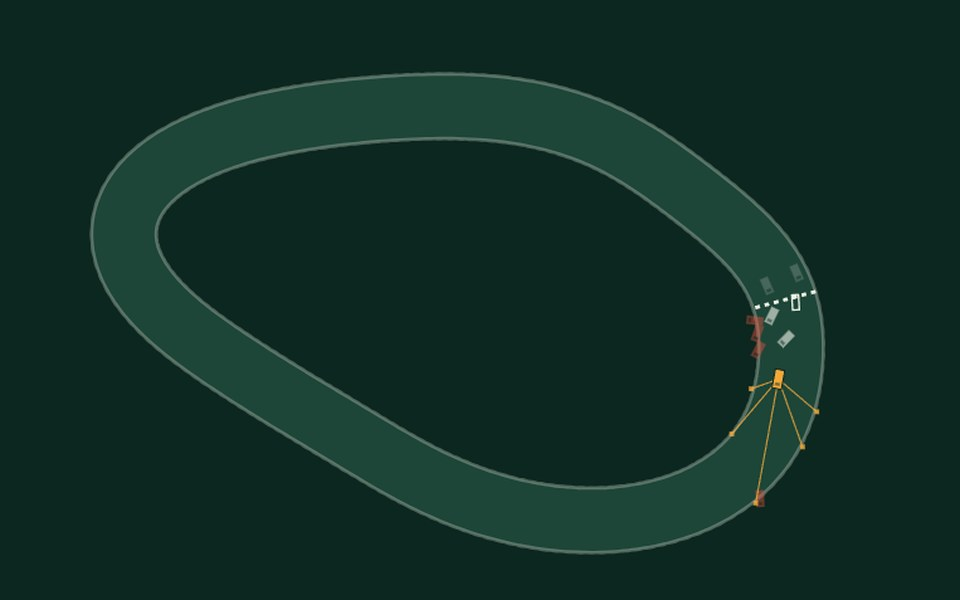
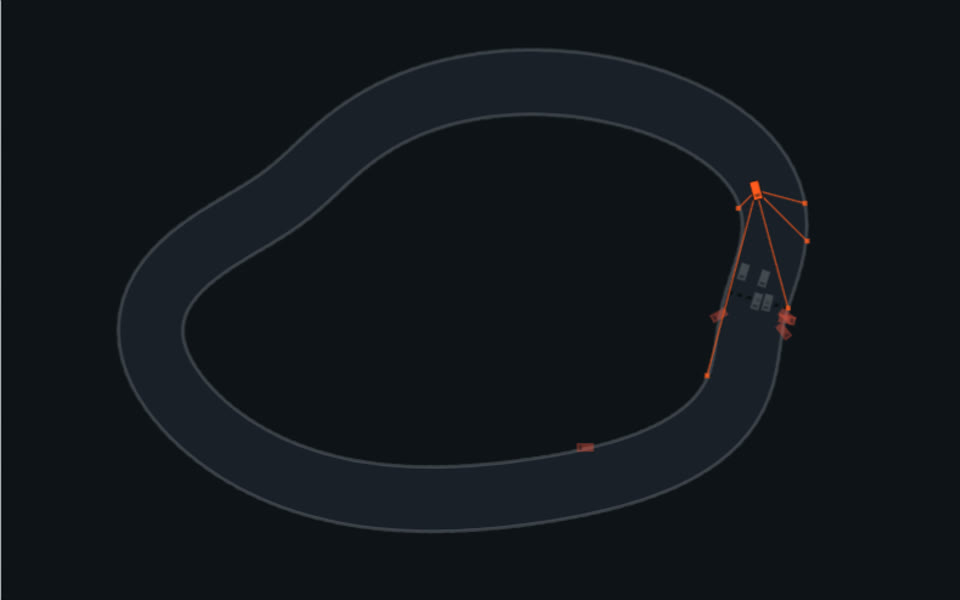
fix(site): racer and teach thumbnails in the dark studio look (#7)

diff --git a/tests/site-markup.test.js b/tests/site-markup.test.js
@@ -354,7 +354,7 @@ describe('no dead css or shelf wording', () => {
 });
 
 describe('old styles and fonts are gone', () => {
-  const skip = ['node_modules', 'docs', 'videos', '.git', '.claude', 'tests'];
+  const skip = ['node_modules', 'docs', 'videos', '.git', '.claude', '.impeccable', 'tests'];
   const walk = d => readdirSync(d, { withFileTypes: true }).flatMap(e =>
     skip.includes(e.name) ? [] : e.isDirectory() ? walk(join(d, e.name)) : [join(d, e.name)]);
   const files = walk(fileURLToPath(new URL('../', import.meta.url)));
